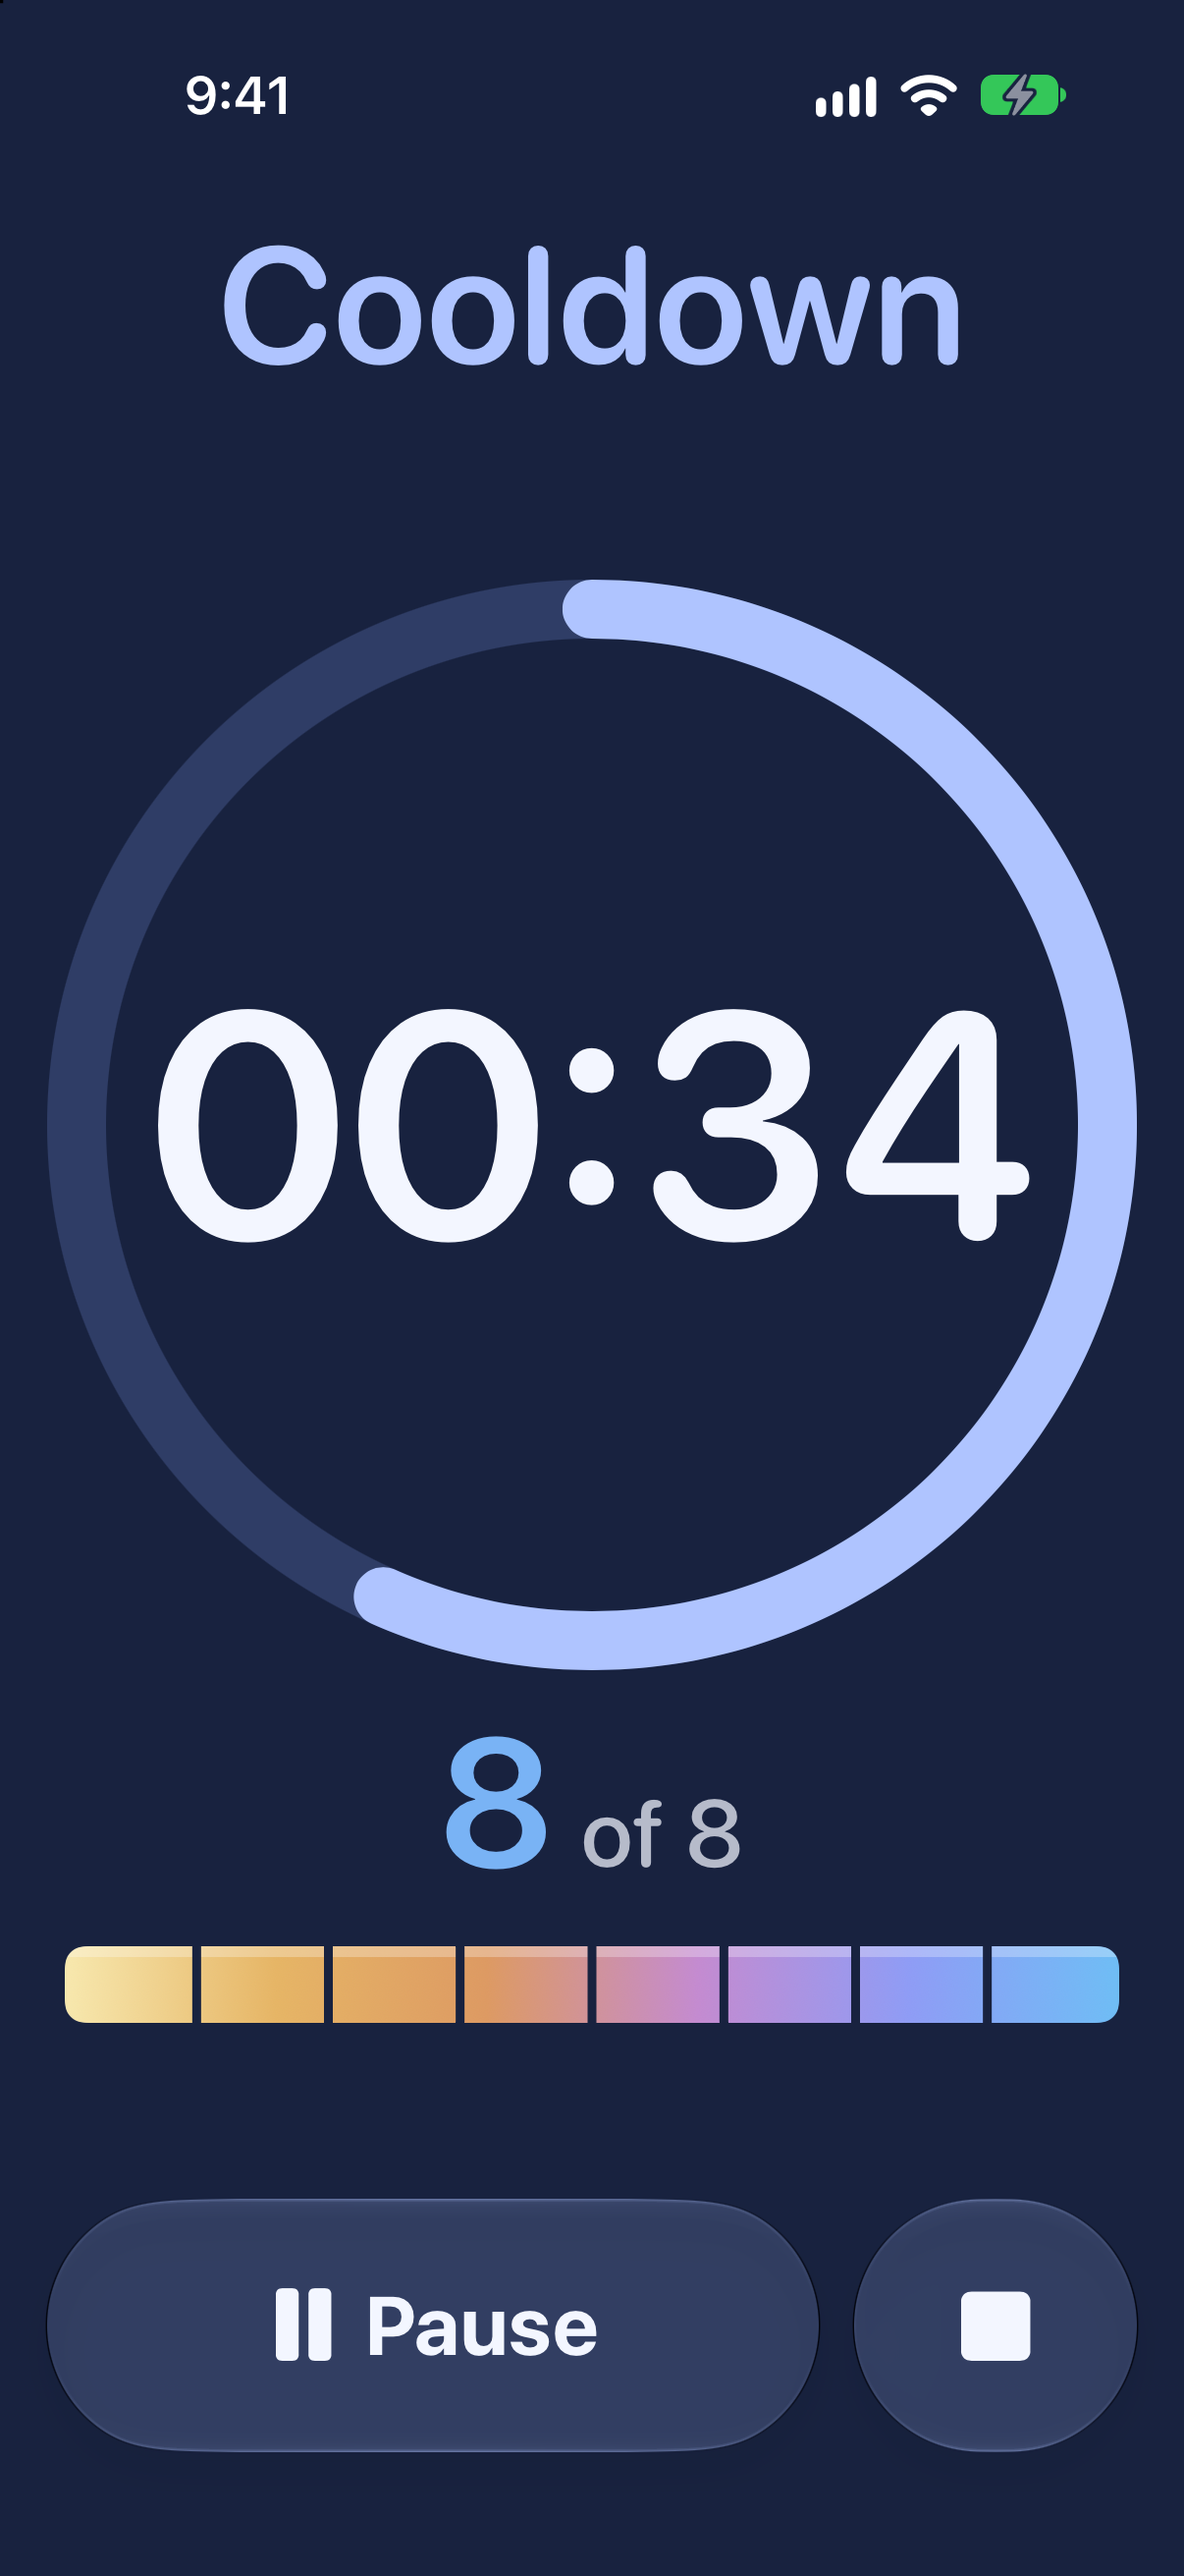
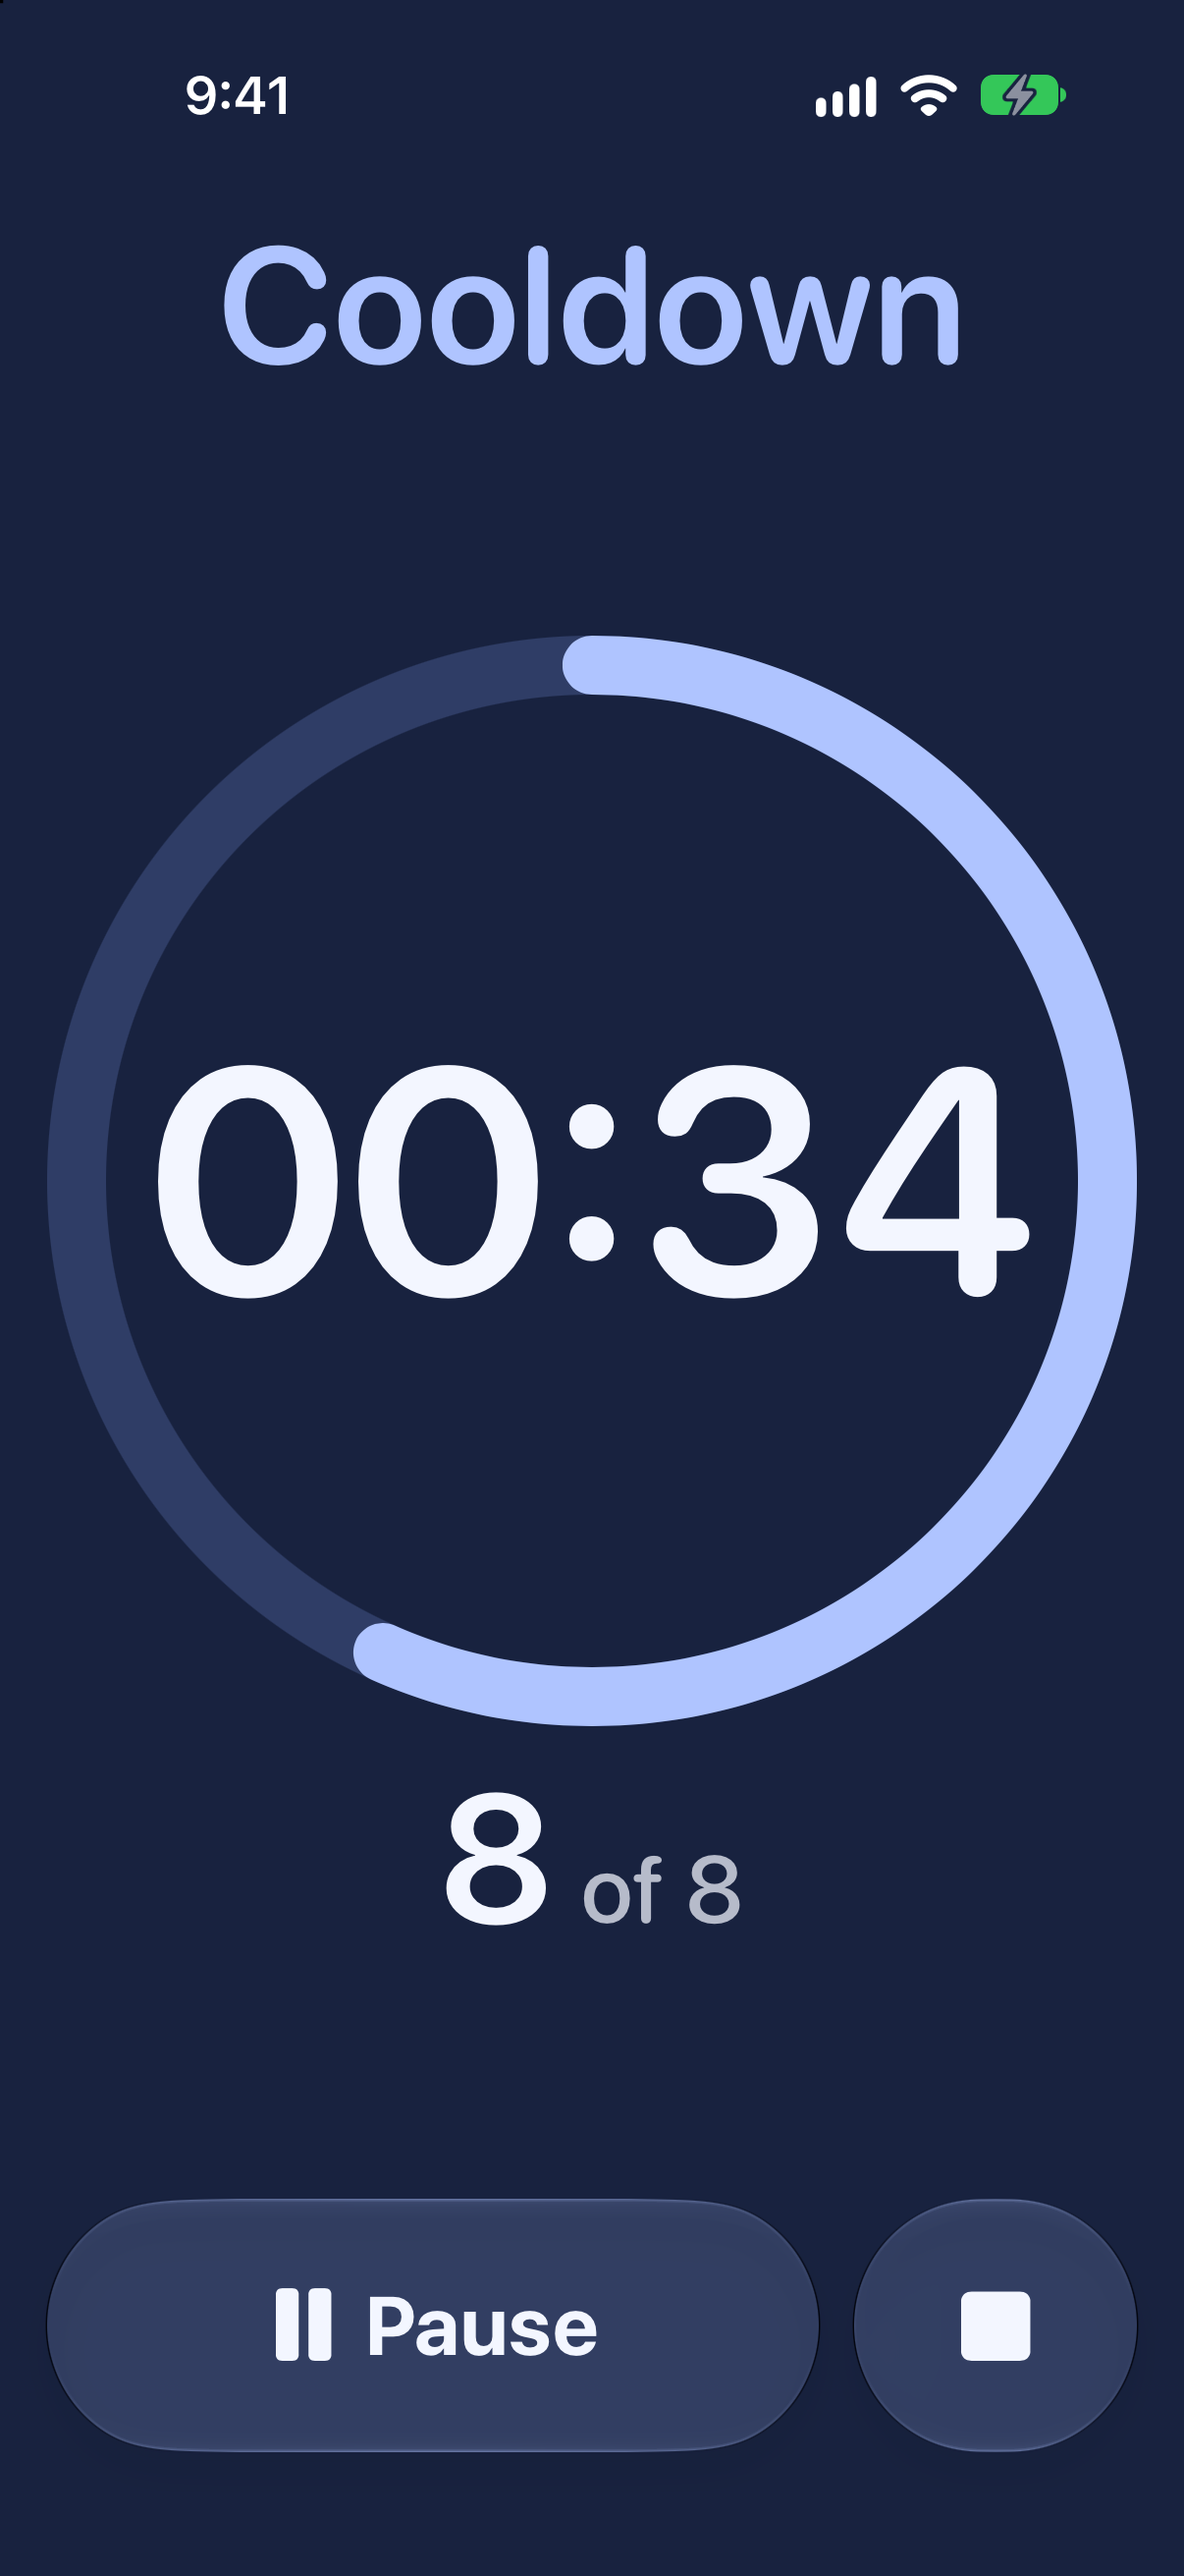
Settle Screens Probe on dim outlined labels with no Temper bar
The owner chose Outline, much dimmer, and dropped the Temper bar everywhere, so the Round number returns to plain text. The outline's copies now composite before their opacity, so 32% is the color shown. The bar and other label treatments remain in history.

Changed region(s): [[0.0307, 0.2162, 0.9511, 0.8032], [0.9511, 0.4634, 0.9818, 0.4943], [0.9511, 0.4016, 0.9818, 0.4325]]

diff --git a/Prototypes/ScreensProbe/ScreensProbe/SetupF.swift b/Prototypes/ScreensProbe/ScreensProbe/SetupF.swift
@@ -1,26 +1,8 @@
 // PROTOTYPE, throw away. The chosen setup screen: the screen is only the preview, and tapping a
-// value opens a sheet with the custom wheel. Each row carries its label as a large secondary word
-// in its Phase's color, behind the value, and this round compares three ways to make it recede.
-// Rounds has no Phase, so it wears brass. Thread, Italic and Edge labels are in this branch's
-// history at 11379f3.
+// value opens a sheet with the custom wheel. Each row carries its label as a large, dim, hollow
+// word in its Phase's color, with the value on the right. Rounds has no Phase, so it wears brass.
+// Other label treatments are in this branch's history at 11379f3 and 8617a1c.
 import SwiftUI
-
-enum LabelStyle: String, CaseIterable {
-    case stamped, outline, fade
-
-    var title: String {
-        switch self {
-        case .stamped: "Stamped"
-        case .outline: "Outline"
-        case .fade: "Fade"
-        }
-    }
-
-    var next: LabelStyle {
-        let all = Self.allCases
-        return all[((all.firstIndex(of: self) ?? 0) + 1) % all.count]
-    }
-}
 
 struct SetupF: View {
     @Bindable var state: ProbeState
@@ -89,38 +71,23 @@ struct SetupF: View {
         }
     }
 
-    @ViewBuilder
+    /// Opaque copies composited first, so the single opacity below is the color you actually see.
     private func word(_ field: Field) -> some View {
         let base = Text(field.title)
             .font(.system(size: 60, weight: .bold, design: .rounded))
             .lineLimit(1)
             .fixedSize()
-        switch state.labelStyle {
-        case .stamped:
-            base
-                .foregroundStyle(stampColor(field))
-                .shadow(color: .white.opacity(0.14), radius: 0, y: 0.75)
-                .shadow(color: .black.opacity(0.7), radius: 0, y: -0.75)
-        case .outline:
-            ZStack {
-                ForEach(0..<12, id: \.self) { step in
-                    let angle = Double(step) / 12 * 2 * .pi
-                    base
-                        .foregroundStyle(titleColor(field).opacity(0.6))
-                        .offset(x: cos(angle) * 1, y: sin(angle) * 1)
-                }
-                base.foregroundStyle(colors.background)
+        return ZStack {
+            ForEach(0..<12, id: \.self) { step in
+                let angle = Double(step) / 12 * 2 * .pi
+                base
+                    .foregroundStyle(titleColor(field))
+                    .offset(x: cos(angle) * 1, y: sin(angle) * 1)
             }
-        case .fade:
-            base.foregroundStyle(titleColor(field).opacity(0.5))
+            base.foregroundStyle(colors.background)
         }
-    }
-
-    /// The dark tone a Phase already uses for its ring's track. Rounds has no Phase, so it gets the
-    /// same treatment from brass.
-    private func stampColor(_ field: Field) -> Color {
-        field.phaseKind.map { state.theme.phase($0).track }
-            ?? colors.accent.mix(with: colors.background, by: 0.72)
+        .compositingGroup()
+        .opacity(0.32)
     }
 
     private func titleColor(_ field: Field) -> Color {

diff --git a/Prototypes/ScreensProbe/ScreensProbe/RunningRing.swift b/Prototypes/ScreensProbe/ScreensProbe/RunningRing.swift
@@ -1,5 +1,6 @@
 // PROTOTYPE, throw away. The chosen running screen: each Phase has a deep tinted background and a
-// lighter ring for the time left, with the Round number and Temper bar below.
+// lighter ring for the time left, with the Round number below. The Temper bar that once sat under
+// it is in this branch's history at 8617a1c.
 import SwiftUI
 
 struct RunningRing: View {
@@ -32,12 +33,6 @@ struct RunningRing: View {
             .aspectRatio(1, contentMode: .fit)
             .padding(10)
             RoundCount(runner: runner)
-            TemperBar(
-                count: runner.rounds, filled: runner.roundsFilled, track: palette.track,
-                cut: palette.background
-            )
-            .padding(.horizontal, 6)
-            .padding(.top, 4)
             Spacer(minLength: 0)
             HStack(spacing: 12) {
                 Button {
@@ -65,5 +60,46 @@ struct RunningRing: View {
         .padding(.horizontal)
         .foregroundStyle(palette.text)
         .background(palette.background.ignoresSafeArea())
+    }
+}
+
+/// The Round number, set large enough to read from across a room, with the total beside it.
+private struct RoundCount: View {
+    let runner: Runner
+    var size: CGFloat = 64
+
+    var body: some View {
+        Group {
+            if runner.isPaused {
+                Text("Paused").font(.system(size: size * 0.66, weight: .semibold, design: .rounded))
+            } else if runner.phase.kind == .prepare {
+                pair("\(runner.rounds)", runner.rounds == 1 ? "Round" : "Rounds")
+            } else {
+                pair("\(runner.phase.round ?? runner.rounds)", "of \(runner.rounds)")
+            }
+        }
+        .lineLimit(1)
+        .minimumScaleFactor(0.6)
+        .frame(height: size * 1.15)
+        .accessibilityElement(children: .ignore)
+        .accessibilityLabel(label)
+    }
+
+    private func pair(_ big: String, _ small: String) -> some View {
+        HStack(alignment: .firstTextBaseline, spacing: size * 0.14) {
+            Text(big)
+                .font(.system(size: size, weight: .semibold, design: .rounded).monospacedDigit())
+            Text(small)
+                .font(
+                    .system(size: size * 0.5, weight: .medium, design: .rounded).monospacedDigit()
+                )
+                .opacity(0.72)
+        }
+    }
+
+    private var label: String {
+        if runner.isPaused { return "Paused" }
+        if let round = runner.phase.round { return "Round \(round) of \(runner.rounds)" }
+        return runner.rounds == 1 ? "1 Round" : "\(runner.rounds) Rounds"
     }
 }

diff --git a/Prototypes/ScreensProbe/ScreensProbe/Model.swift b/Prototypes/ScreensProbe/ScreensProbe/Model.swift
@@ -1,6 +1,6 @@
 // PROTOTYPE, throw away. Final round: the chosen setup and running screens in the Ink design
-// system, with the Temper bar on the running screen. Earlier rounds are in this branch's history
-// at d6cee05, 6c6edda, b8542a3, 9fc9369 and 31084cb.
+// system. Earlier rounds are in this branch's history at d6cee05, 6c6edda, b8542a3, 9fc9369,
+// 31084cb, 11379f3 and 8617a1c.
 import Foundation
 import Observation
 
@@ -119,17 +119,6 @@ final class Runner {
     var timeText: String { clock(Int(remaining.rounded(.up))) }
     var phaseProgress: Double { 1 - remaining / Double(phase.seconds) }
 
-    /// Rounds finished so far, with the running Round as a fraction across its Work and Rest.
-    /// Zero during Prepare, and every Round during Cooldown.
-    var roundsFilled: Double {
-        guard let round = phase.round else { return phase.kind == .prepare ? 0 : Double(rounds) }
-        let parts = phases.filter { $0.round == round }
-        let total = parts.reduce(0) { $0 + $1.seconds }
-        let earlier = phase.kind == .rest ? parts.first?.seconds ?? 0 : 0
-        let elapsed = Double(earlier) + Double(phase.seconds) - remaining
-        return Double(round - 1) + elapsed / Double(total)
-    }
-
     func togglePause() {
         isPaused.toggle()
         if !isPaused { phaseEnd = .now + .milliseconds(Int(remaining * 1000)) }
@@ -187,11 +176,9 @@ final class ProbeState {
     let noBar = UserDefaults.standard.bool(forKey: "noBar")
     var editing: Field?
     var confirmStop = false
-    var labelStyle = LabelStyle.outline
 
     init() {
         let args = UserDefaults.standard
-        labelStyle = LabelStyle(rawValue: args.string(forKey: "labelStyle") ?? "") ?? .outline
         if args.object(forKey: "rest") != nil { values.rest = args.integer(forKey: "rest") }
         if args.integer(forKey: "rounds") > 0 {
             values.rounds = Field.rounds.clamped(args.integer(forKey: "rounds"))

diff --git a/Prototypes/ScreensProbe/ScreensProbe/ProbeBar.swift b/Prototypes/ScreensProbe/ScreensProbe/ProbeBar.swift
@@ -41,8 +41,6 @@ extension View {
                     Text(detail).font(.caption2)
                 }
                 .frame(maxWidth: .infinity)
-                barButton("textformat") { state.labelStyle = state.labelStyle.next }
-                    .accessibilityLabel("Next label style")
                 if let runner = state.runner, !runner.isDone {
                     barButton("forward.end.fill") { runner.skip() }
                 }
@@ -62,7 +60,7 @@ extension View {
 
         private var title: String {
             let screen = !state.path.isEmpty ? "SETTINGS" : onRunning ? "RUNNING" : "SETUP"
-            return "PROTOTYPE · \(screen) · \(state.labelStyle.title)"
+            return "PROTOTYPE · \(screen)"
         }
 
         private var detail: String {

diff --git a/Prototypes/ScreensProbe/README.md b/Prototypes/ScreensProbe/README.md
@@ -4,7 +4,7 @@ Answers one question: what should the setup, running and Settings screens look l
 
 The timer is a stand-in. It has no audio, no background running and no accuracy claims, and nothing is saved.
 
-This round compares three ways to show the setup labels as large secondary words, with the layouts, the Ink design system and the Temper bar chosen. Earlier variants are in this branch's history: the first round at `d6cee05`, the second at `6c6edda`, the third, with the Tide and Plum themes, at `b8542a3`, the fourth, with "Round 3 of 8" as text, at `9fc9369` the fifth, with the Chalk and Bezel styles, at `31084cb`, and the Thread, Italic and Edge labels at `11379f3`.
+This is the final round, with the layouts, the Ink design system and the outlined setup labels chosen. Earlier variants are in this branch's history: the first round at `d6cee05`, the second at `6c6edda`, the third, with the Tide and Plum themes, at `b8542a3`, the fourth, with "Round 3 of 8" as text, at `9fc9369`, the fifth, with the Chalk and Bezel styles, at `31084cb`, the Temper bar at `825ef26`, the Thread, Italic and Edge labels at `11379f3`, and the Stamped and Fade labels at `8617a1c`.
 
 ## Run it
 
@@ -22,7 +22,6 @@ Colors are best judged on a real iPhone. For that, run `cp Config/Local.xcconfig
 
 The black and yellow bar is not part of any design.
 
-- **Text button:** switches the setup labels between Stamped, Outline and Fade. The bar names the current one.
 - **Skip button:** jumps to the next Phase. Skipping is not a v1 feature.
 - **Eye:** hides the bar. A small yellow dot in the bottom corner brings it back.
 
@@ -39,17 +38,11 @@ The app is dark only, on a blue-black home background `#11151D` with a brass acc
 
 ## Rounds
 
-The running screen shows a Temper bar in every Phase: a steel bar that takes on the oxide colors of tempering steel, from straw to blue, with a cut at each Round. A Round's mark fills across its Work and Rest. Above it, the Round number wears its Round's color. Stops: `#F7E8AE`, `#E6B566`, `#DD9A63`, `#C48BD0`, `#8F9CF5`, `#6FBDF5`.
-
-Setup and the complete screen don't show the bar.
+The running screen shows the Round number at 64 pt with "of 8" smaller beside it. VoiceOver says "Round 3 of 8".
 
 ## Setup labels
 
-Each row's label is a 60 pt bold word on the left with its value on the right. A long word dissolves just before the digits begin. Rounds has no Phase, so it uses brass.
-
-- **Stamped:** the Phase's dark track color with a fine highlight and shade, like a mark pressed into steel.
-- **Outline:** hollow letters in the Phase's color at 60%.
-- **Fade:** solid letters in the Phase's color at 50%.
+Each row's label is a 60 pt bold hollow word on the left, in the Phase's color at 32%, with its value on the right. A long word dissolves just before the digits begin. Rounds has no Phase, so it uses brass.
 
 ## Time format
 
@@ -59,8 +52,8 @@ Every time reads `00:00`, for example `01:00`.
 
 Prepare, Rest and Cooldown run from Off to 30:00 in 5-second steps, and Off skips the Phase. Work runs from 00:05 to 30:00. Rounds run from 1 to 99.
 
-Launch arguments open a state directly, for example `./run.sh -screen running -phase Rest -time 14`. Others are `-screen settings`, `-screen complete`, `-paused YES`, `-confirmStop YES`, `-edit work`, `-noBar YES`, `-rounds 99`, `-rest 0` and `-labelStyle outline`.
+Launch arguments open a state directly, for example `./run.sh -screen running -phase Rest -time 14`. Others are `-screen settings`, `-screen complete`, `-paused YES`, `-confirmStop YES`, `-edit work`, `-noBar YES`, `-rounds 99` and `-rest 0`.
 
 ## Screenshots
 
-`screenshots/` has every screen on a Simulator iPhone 18 Pro, without the bar, including 3 and 99 Rounds. `screenshots/labels/` has each label style.
+`screenshots/` has every screen on a Simulator iPhone 18 Pro, without the bar, including 3 and 99 Rounds.
